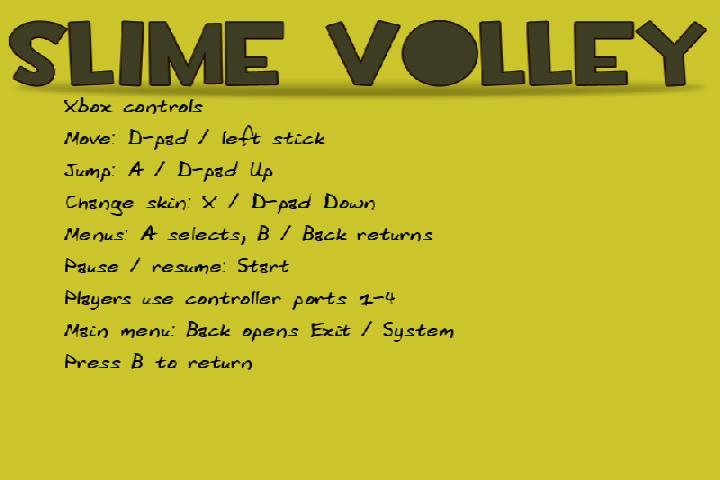
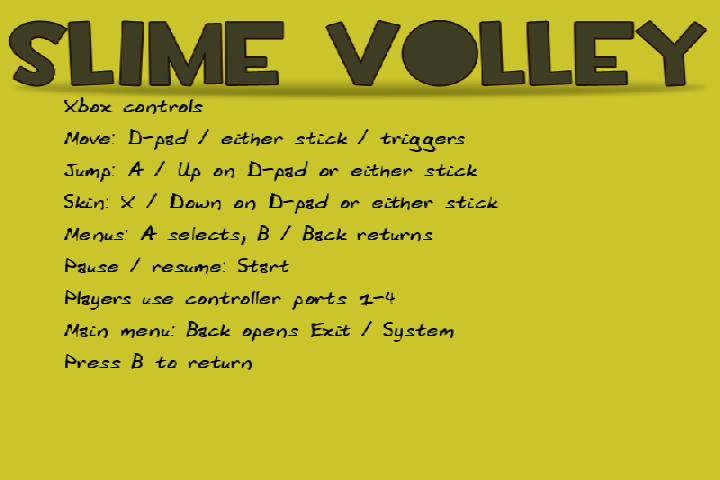
Expand Xbox controller aliases and fix recovery chord (#3)

Changed region(s): [[0.0917, 0.25, 0.7028, 0.4688]]

diff --git a/ports/nxdk/Platform.c b/ports/nxdk/Platform.c
@@ -1,6 +1,7 @@
 /* SPDX-License-Identifier: GPL-3.0-or-later */
 #define SV_COMPAT_IMPLEMENTATION
 #include "Compat.h"
+#include "Controller.h"
 #include "slime.h"
 #include "themes.h"
 #include <windows.h>
@@ -129,20 +130,16 @@ static void controllers(void) {
     static const SDL_Keycode codes[8]={SDLK_UP,SDLK_DOWN,SDLK_LEFT,SDLK_RIGHT,SDLK_RETURN,SDLK_ESCAPE,SDLK_SPACE,SDLK_x};
     for(int i=0;i<4;i++) {
         unsigned b=0; SDL_Joystick *p=pads[i];
+        SvPadState state={0};
         if(p) {
-            Uint8 h=SDL_JoystickGetHat(p,0);
-            Sint16 x=SDL_JoystickGetAxis(p,0),y=SDL_JoystickGetAxis(p,1);
-            if((h&SDL_HAT_UP)||y<-12000) b|=1;
-            if((h&SDL_HAT_DOWN)||y>12000) b|=2;
-            if((h&SDL_HAT_LEFT)||x<-12000) b|=4;
-            if((h&SDL_HAT_RIGHT)||x>12000) b|=8;
-            if(SDL_JoystickGetButton(p,0)) b|=16;
-            if(SDL_JoystickGetButton(p,1)||SDL_JoystickGetButton(p,6)) b|=32;
-            if(SDL_JoystickGetButton(p,7)) b|=64;
-            if(SDL_JoystickGetButton(p,2)) b|=128;
+            state.hat=SDL_JoystickGetHat(p,0);
+            for(int axis=0;axis<6;axis++) state.axes[axis]=SDL_JoystickGetAxis(p,axis);
+            for(int button=0;button<10;button++)
+                if(SDL_JoystickGetButton(p,button)) state.buttons|=1u<<button;
+            b=sv_pad_mask(&state);
         }
         held[i]=b;
-        if((b&96)==96) {
+        if(sv_pad_recovery(&state)) {
             if(!reset_since[i]) reset_since[i]=SDL_GetTicks();
             else if(SDL_GetTicks()-reset_since[i]>=2000) {printf("Back+Start recovery\n");fflush(NULL);XReboot();}
         } else reset_since[i]=0;
@@ -197,7 +194,7 @@ void sv_quit(void) {
 }
 void sv_controls_help(void) {
     SDL_BlitSurface(fond,NULL,ecran,NULL);
-    const char *lines[]={"Xbox controls","Move: D-pad / left stick","Jump: A / D-pad Up","Change skin: X / D-pad Down","Menus: A selects, B / Back returns","Pause / resume: Start","Players use controller ports 1-4","Main menu: Back opens Exit / System","Press B to return"};
+    const char *lines[]={"Xbox controls","Move: D-pad / either stick / triggers","Jump: A / Up on D-pad or either stick","Skin: X / Down on D-pad or either stick","Menus: A selects, B / Back returns","Pause / resume: Start","Players use controller ports 1-4","Main menu: Back opens Exit / System","Press B to return"};
     for(unsigned i=0;i<sizeof(lines)/sizeof(lines[0]);i++)
         afficher((char*)lines[i],police,coul_txt_menu,70,110+i*40);
     sv_flip(ecran);SDL_Event e;

diff --git a/ports/nxdk/tests/controller.c b/ports/nxdk/tests/controller.c
@@ -1,0 +1,33 @@
+#include "../Controller.h"
+#include <assert.h>
+#include <stdio.h>
+#include <string.h>
+int main(void) {
+    SvPadState p={0};
+    assert(sv_pad_mask(&p)==0); /* initial trigger values must not move */
+    p.axes[2]=p.axes[5]=-32768;assert(sv_pad_mask(&p)==0);
+    for(int stick=0;stick<2;stick++) {
+        int x=stick?3:0,y=stick?4:1;
+        p.axes[x]=-12000;assert(sv_pad_mask(&p)==0);
+        p.axes[x]=-12001;assert(sv_pad_mask(&p)==SV_LEFT);
+        p.axes[x]=12001;assert(sv_pad_mask(&p)==SV_RIGHT);p.axes[x]=0;
+        p.axes[y]=-12001;assert(sv_pad_mask(&p)==SV_UP);
+        p.axes[y]=12001;assert(sv_pad_mask(&p)==SV_DOWN);p.axes[y]=0;
+    }
+    p.axes[2]=1;assert(sv_pad_mask(&p)==SV_LEFT);
+    p.axes[5]=32767;assert(sv_pad_mask(&p)==0); /* both triggers */
+    p.axes[2]=-32768;assert(sv_pad_mask(&p)==SV_RIGHT);p.axes[5]=-32768;
+    p.hat=SDL_HAT_LEFT;p.axes[3]=32767;assert(sv_pad_mask(&p)==0);
+    p.axes[3]=-32768;assert(sv_pad_mask(&p)==SV_LEFT);
+    p.hat=0;assert(sv_pad_mask(&p)==SV_LEFT); /* release one duplicate */
+    p.axes[3]=0;assert(sv_pad_mask(&p)==0);
+    p.hat=SDL_HAT_UP;p.axes[4]=32767;assert(sv_pad_mask(&p)==0);
+    p.axes[4]=0;p.hat=SDL_HAT_RIGHTUP;assert(sv_pad_mask(&p)==(SV_UP|SV_RIGHT));p.hat=0;
+    p.buttons=(1u<<0)|(1u<<2);assert(sv_pad_mask(&p)==(SV_A|SV_X));
+    p.buttons=(1u<<1)|(1u<<7);assert(!sv_pad_recovery(&p));
+    assert(sv_pad_mask(&p)==(SV_BACK|SV_START));
+    p.buttons=(1u<<6);assert(!sv_pad_recovery(&p));
+    p.buttons|=1u<<7;assert(sv_pad_recovery(&p));
+    memset(&p,0,sizeof(p));assert(sv_pad_mask(&p)==0 && !sv_pad_recovery(&p));
+    puts("PASS: both sticks, triggers, deadzones, duplicate/opposing inputs, buttons and recovery chord");
+}

diff --git a/ports/nxdk/Controller.h b/ports/nxdk/Controller.h
@@ -1,0 +1,28 @@
+/* SPDX-License-Identifier: GPL-3.0-or-later */
+#ifndef SV_CONTROLLER_H
+#define SV_CONTROLLER_H
+#include <SDL.h>
+enum { SV_UP=1, SV_DOWN=2, SV_LEFT=4, SV_RIGHT=8,
+       SV_A=16, SV_BACK=32, SV_START=64, SV_X=128 };
+typedef struct { Sint16 axes[6]; Uint8 hat; unsigned buttons; } SvPadState;
+/* NXDK SDL axes: LX, LY, LT, RX, RY, RT. Triggers range -32768..32767;
+ * zero can also be the initial value before the first trigger report. */
+static inline unsigned sv_pad_mask(const SvPadState *p) {
+    unsigned b=0;
+    if((p->hat&SDL_HAT_UP)||p->axes[1]<-12000||p->axes[4]<-12000) b|=SV_UP;
+    if((p->hat&SDL_HAT_DOWN)||p->axes[1]>12000||p->axes[4]>12000) b|=SV_DOWN;
+    if((p->hat&SDL_HAT_LEFT)||p->axes[0]<-12000||p->axes[3]<-12000||p->axes[2]>0) b|=SV_LEFT;
+    if((p->hat&SDL_HAT_RIGHT)||p->axes[0]>12000||p->axes[3]>12000||p->axes[5]>0) b|=SV_RIGHT;
+    if(p->buttons&(1u<<0)) b|=SV_A;
+    if(p->buttons&((1u<<1)|(1u<<6))) b|=SV_BACK;
+    if(p->buttons&(1u<<7)) b|=SV_START;
+    if(p->buttons&(1u<<2)) b|=SV_X;
+    /* Opposing directions cancel, regardless of which control supplied them. */
+    if((b&(SV_LEFT|SV_RIGHT))==(SV_LEFT|SV_RIGHT)) b&=~(SV_LEFT|SV_RIGHT);
+    if((b&(SV_UP|SV_DOWN))==(SV_UP|SV_DOWN)) b&=~(SV_UP|SV_DOWN);
+    return b;
+}
+static inline int sv_pad_recovery(const SvPadState *p) {
+    return (p->buttons&((1u<<6)|(1u<<7)))==((1u<<6)|(1u<<7));
+}
+#endif

diff --git a/ports/nxdk/CONTROLLER-AUDIT.md b/ports/nxdk/CONTROLLER-AUDIT.md
@@ -1,0 +1,38 @@
+# Controller audit — 2026-10-19
+
+The pinned nxdk SDL Xbox backend reports axes as LX, LY, LT, RX, RY, RT.
+The port now shares a tested decoder between the Xbox build and host tests.
+
+| Action | Inputs |
+| --- | --- |
+| Left / right | D-pad, either stick, left / right trigger |
+| Jump | A, D-pad Up, either stick Up |
+| Change skin | X, D-pad Down, either stick Down |
+| Confirm | A or Start |
+| Return | B or Back |
+| Pause / resume | Start |
+| Recovery reboot | Hold physical Back + Start for two seconds |
+
+Stick deadzone is 12000 on signed 16-bit axes. Triggers activate above the
+signed midpoint (roughly half travel); initial zero values cannot cause movement.
+Duplicate directions combine; opposing directions cancel. Y, black, white and
+stick clicks have no assigned action. Menus accept connected controllers;
+gameplay retains each player's selected physical port.
+
+The audit also fixed recovery mistakenly accepting B + Start because B and
+Back share the normal navigation action. Recovery now checks physical buttons.
+
+Validation: host ASan/UBSan core tests and decoder regression tests passed;
+the nxdk build passed. The deployed executable and final FTP readback both hash
[1 lines of base64/hex data omitted]
+KVM inputs exercised right-stick directions, both triggers separately/together,
+conflicting sticks and B + Start held 2.3 seconds. Runtime masks confirmed input
+recognition; B + Start did not reboot. The new Controls screen was captured from
+the Xbox. Some MJPEG frames were stale or missing, so these captures do not
+independently prove every gameplay effect. Decoder tests cover the aliases,
+deadzones, diagonals, duplicate releases, opposing directions and recovery chord.
+The final log records normal launcher exit and completed SDL/audio shutdown.
+Raw evidence is retained locally under `logs/hardware/controller-*`.
+
+Four simultaneous physical controllers, hotplug permutations, analog drift on
+multiple retail pads and every menu/screen remain unverified.

diff --git a/docs/screenshots/README.md b/docs/screenshots/README.md
@@ -3,7 +3,8 @@
 Captured on 2026-10-19 from the running original Xbox build through the ESP
 HDMI KVM from the [ESP-KVM Xbox fork](https://github.com/ZacharyLeahan/espkvm-xbox).
 These are unedited JPEG frames, not mockups or emulator captures.
-Both use the Modern theme; the optional FPS overlay was disabled for capture.
+Both use the Modern theme. The optional FPS overlay is disabled in the gameplay
+image and enabled in the controls image.
 The KVM-delivered frames are 720×480 pixels.
 
 - `xbox-gameplay.jpg`: a 1v1 match with controller 1 jumping near the net
@@ -11,9 +12,11 @@ The KVM-delivered frames are 720×480 pixels.
 - `xbox-controls.jpg`: the Xbox Controls screen showing button mappings,
   physical controller ports 1–4, pause/resume, and Exit / System navigation.
 
-Installed executable SHA-256:
+Gameplay executable SHA-256:
[1 lines of base64/hex data omitted]
-The launch helper verified the installed package before starting it.
+Controls executable SHA-256:
[1 lines of base64/hex data omitted]
+The launch helper verified each installed package before starting it.
 
 Game artwork and fonts retain their existing attribution and licensing;
 see `debian/copyright` in the repository root.

diff --git a/ports/nxdk/README.md b/ports/nxdk/README.md
@@ -14,7 +14,9 @@ XBE hash in `test-results/acceptance.json`, not inferred from compilation.
 - Original 800x600 logical playfield, scaled to 640x480 output by SDL2 surfaces.
 - Select `Controller 1`–`Controller 4` on the team screen to assign physical
   Xbox ports 1–4. Menus accept any controller.
-- D-pad/left stick move; A or Up jump; X or Down change skin. A selects,
+- D-pad/either stick move; left/right triggers also move left/right.
+  A or Up on the D-pad/either stick jumps; X or Down changes skin.
+  Opposing directions cancel; repeated controls in the same direction combine. A selects,
   B/Back returns, Start pauses/resumes. Hold Back+Start two seconds to reboot.
 - `Options > Controls` displays Xbox button mappings and player-port help.
   Xbox Options omits the desktop fullscreen toggle.

diff --git a/README.md b/README.md
@@ -23,9 +23,9 @@ Both images are unedited hardware captures; [capture details](docs/screenshots/R
 
 | Action | Xbox controller |
 | --- | --- |
-| Move | D-pad or left stick |
-| Jump | A or D-pad Up |
-| Change skin | X or D-pad Down |
+| Move | D-pad, either analog stick, or left/right trigger |
+| Jump | A or Up on the D-pad / either stick |
+| Change skin | X or Down on the D-pad / either stick |
 | Select / go back | A / B or Back |
 | Pause / resume | Start |
 | Open Exit / System from the main menu | B or Back |
